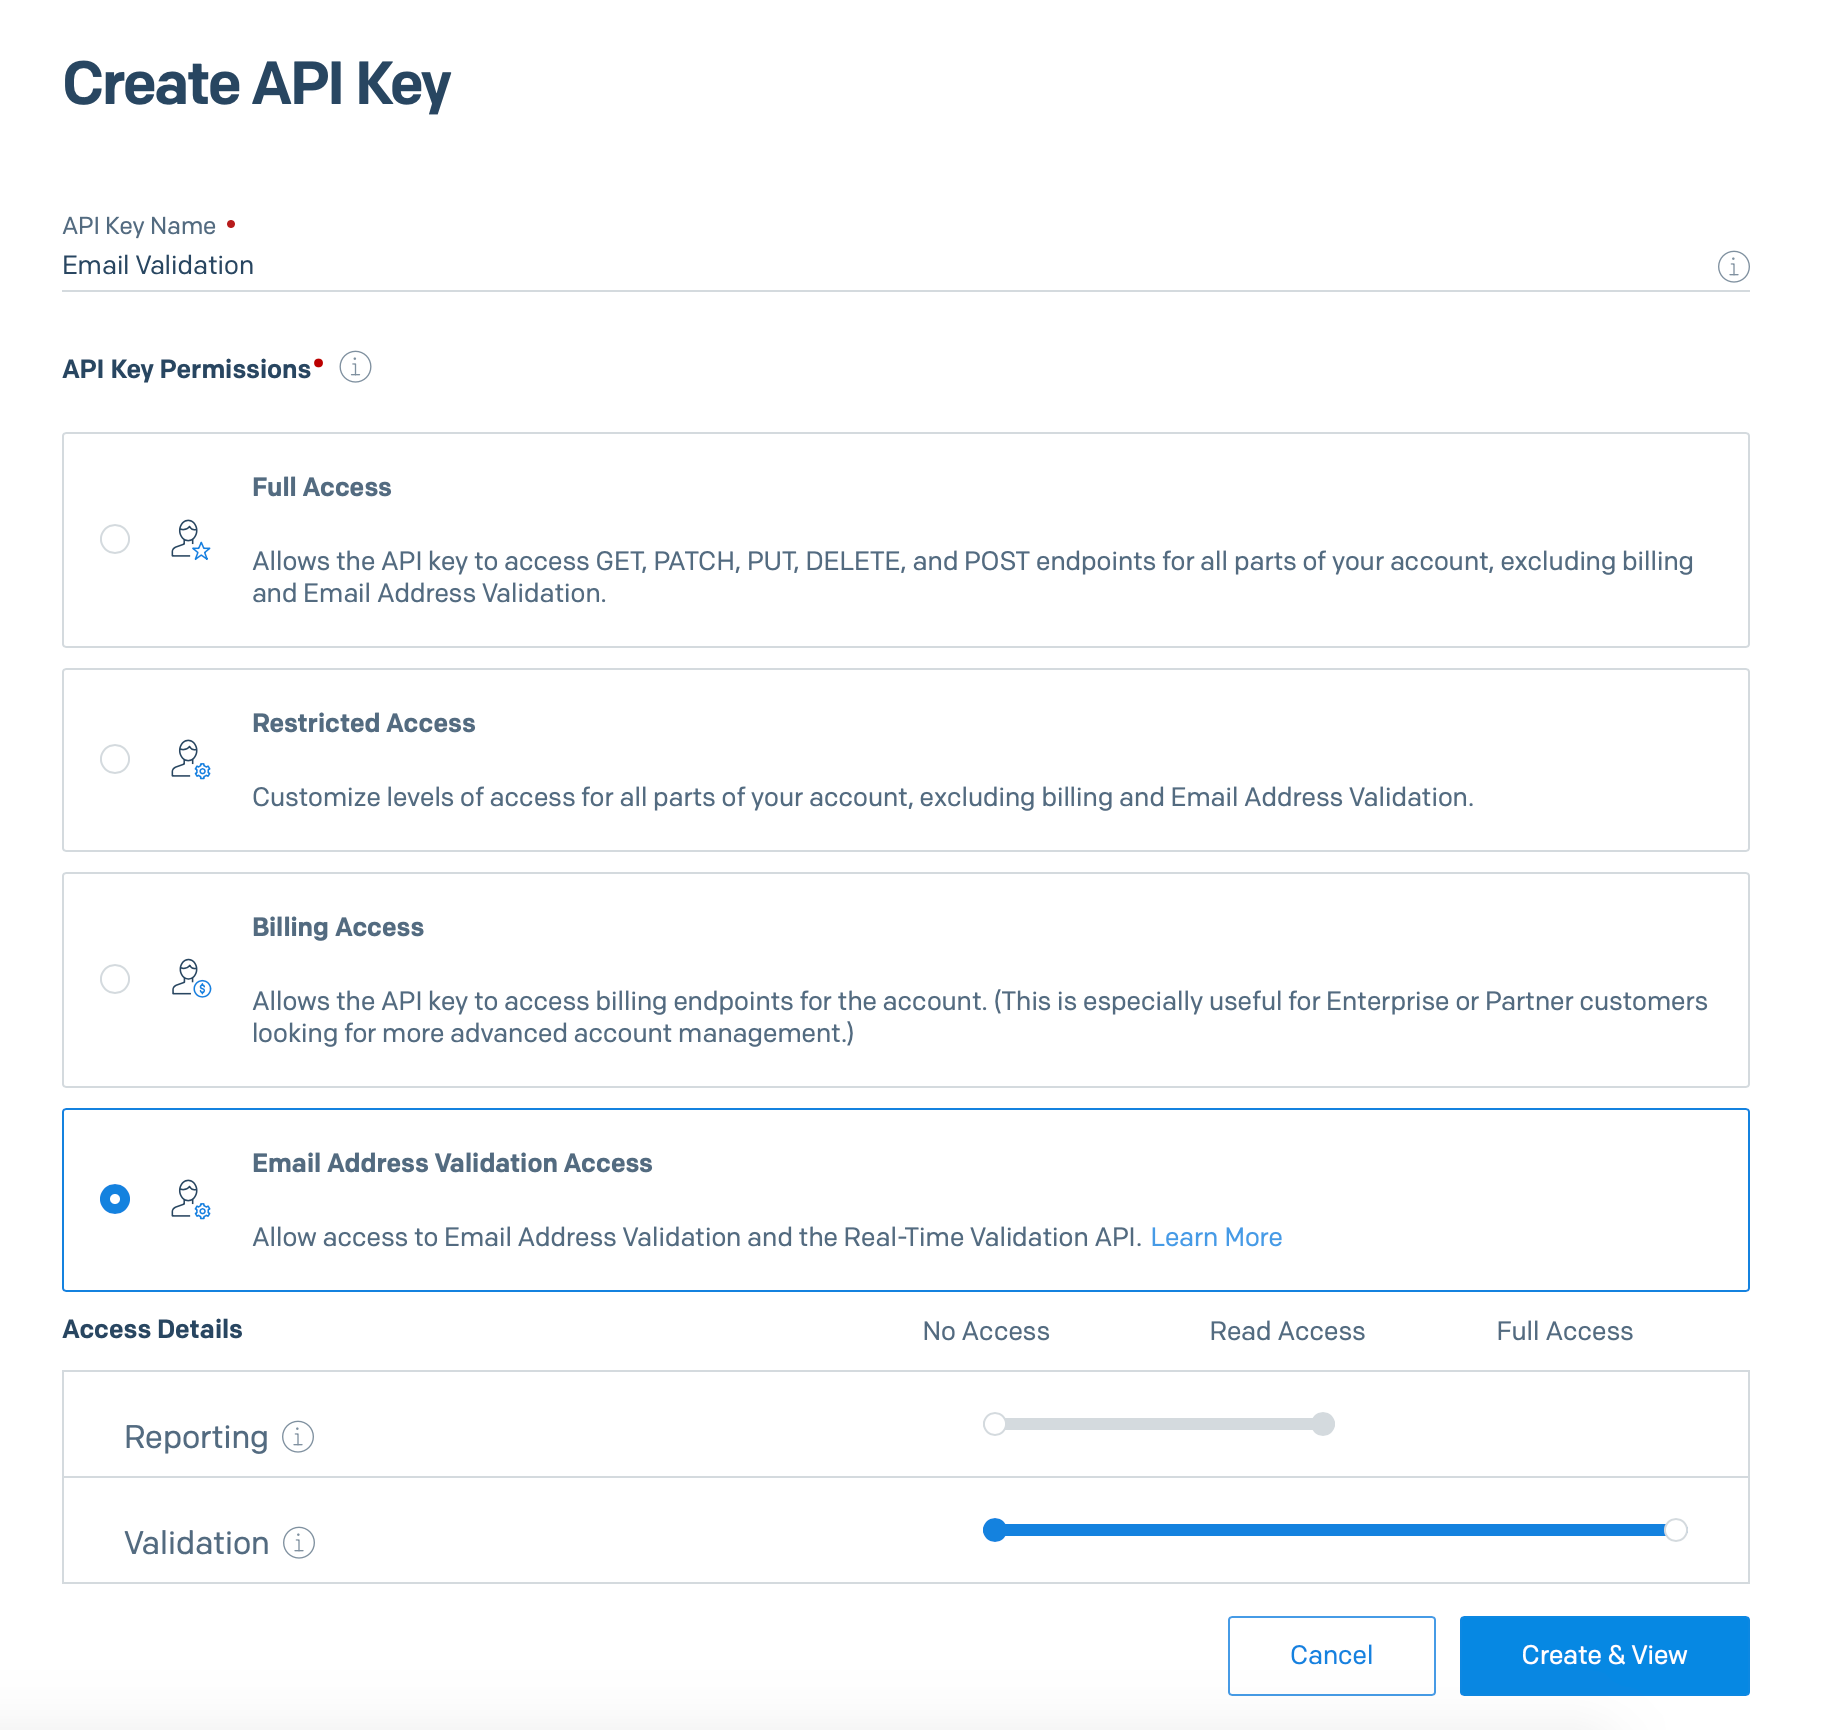
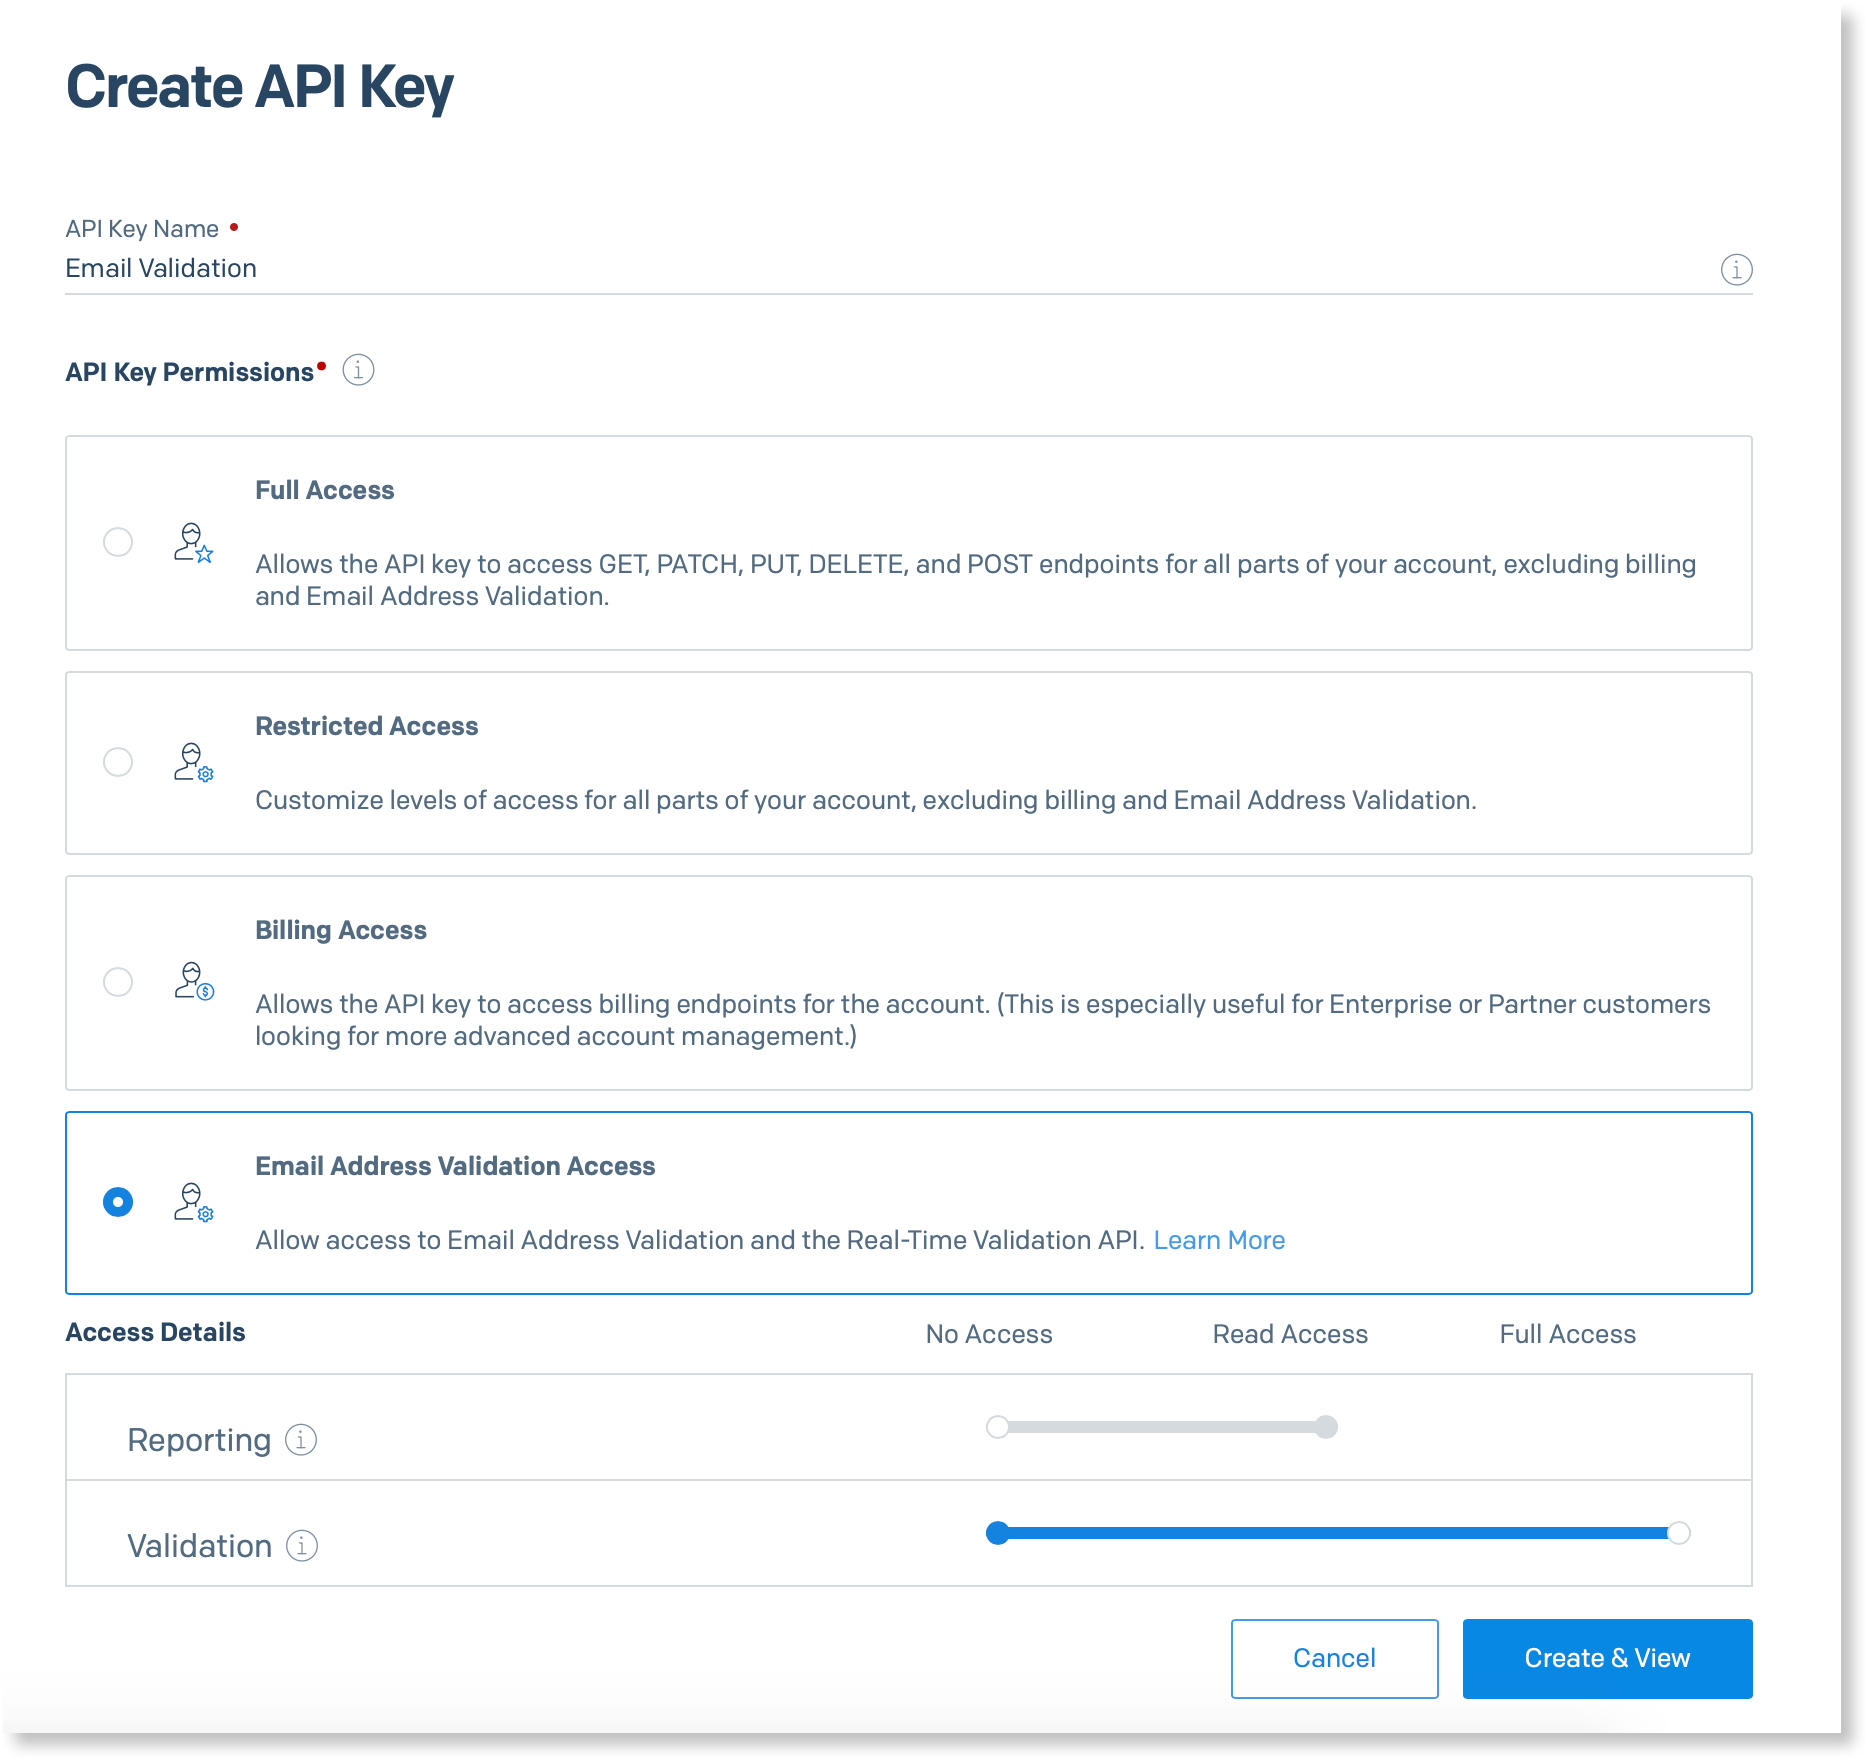
Email Address Validation Beta

diff --git a/content/docs/ui/managing-contacts/email-address-validation.md b/content/docs/ui/managing-contacts/email-address-validation.md
@@ -1,0 +1,176 @@
+---
+layout: page
+weight: 55
+title: Email Address Validation Beta
+group: managing-contacts
+navigation:
+  show: true
+seo:
+  title: Email Address Validation Beta
+  keywords: email, validation, signup
+  override: true
+  description: Twilio SendGrid's real-time Email Address Validation provides you detailed information on the validity of your users' email addresses, as well as allows you to integrate this validation process into your signup process. 
+
+---
+
+Email Address Validation provides you real-time detailed information on the validity of your users' email addresses, as well as allows you to integrate this validation process into your platform's signup form. You can customize how strict your validation threshold is, as well as whether or not you want to inform your users that their email addresses are invalid, or if you want to drop their email address from your database. 
+
+Validating your users' email addresses so that you are sending to more valid email addresses will allow you to maintain a cleaner subscriber list and improve your sender reputation.
+
+## Generating your Email Address Validation API Key
+
+Before you can call the Email Address Validation Real Time API endpoint, you’ll need an API key with Email Address Validation permissions.
+ 
+<call-out>
+
+You are required to create a brand new API key that will only be used for Email Address Validation. Please do not re-use an existing API key with Email Validation.
+
+</call-out>
+
+1. Navigate to **Settings**, and then select **API Keys**. Click **Create API Key** in the upper right-hand corner.
+1. Name your new key and select the **Email Address Validation Access** permission.
+1. Select **Full Access** to the left of **Validation**.
+
+![]({{root_url}}/img/create-api-key.png "API Key Access Permissions List")
+
+<call-out>
+
+If you do not see “Email Address Validation Access” listed in your list, please reach back out to us so that we can ensure your account is in the beta.
+
+</call-out>
+
+4. Click **Create & View**.
+5. Copy your new API key somewhere safe. **This will be the only time you will be able to see it in its entirety due to security reasons.**
+
+You’re now ready to start using the Real Time API endpoint!  
+
+## Using the Real Time API Endpoint
+
+The Email Address Validation Real Time API Endpoint takes a single email address in a POST request, and returns a verdict with detailed data in a JSON response. Complete documentation of the endpoint, including details of the response, are available [here]/(**INSERT NEW LINK HERE**).
+
+*When integrating with the Real Time API endpoint, please keep the following things in mind*:
+
+- Do not call the API endpoint from client side code such as Javascript. Doing so would allow anyone to find your API key and use it to validate their own email addresses on your account. You should instead call the API from backend code, for instance, after the user submits a form.
+- The API currently accepts one email address at a time. If for some reason you have multiple addresses you need to validate, please call the API once per email address.
+- The API endpoint is rate limited to 600 requests per minute. Please let us know if this rate limit is too restrictive for your needs as we evaluate it during the beta period.
+
+The "Source" gets passed through the API call as an optional field. You pass it as a string, only using alphanumeric characters and spaces. For example:
+
+```
+{
+  "email": "email@example.com",
+  "source": "Newsletter Signup"
+}
+```
+
+The API response should look something like this, using the example email "cedric.fogowl@gmail.com":
+
+
+```
+{"result":{"email":"cedric.fogowl@gmail.com",
+"verdict":"Valid","score":0.98015,
+"local":"cedric.fogowl","host":"gmail.com",
+"checks":{"domain":{"has_valid_address_syntax":true,
+"has_mx_or_a_record":true,"is_suspected_disposable_address":false},
+"local_part":{"is_suspected_role_address":false},
+"additional":{"has_known_bounces":false,
+"has_suspected_bounces":false}},"ip_address":"65.101.243.157"}}
+```
+
+## Integration suggestions
+
+While the API allows flexibility for integrating in multiple ways, this section describes a recommended approach for validating emails in a sign up form. This could be a sign up form for subscribing to a newsletter, or for signing up for an account with your service. Some websites require visitors to enter their email address in twice, but with Twilio SendGrid’s Email Validation API, you can require that they only enter it in *once*, reducing friction points while also validating user input.
+
+### When to call the API
+
+Call the API in your backend code, most commonly after the user submits the form. You could also call your backend to validate an email address right after a user types in their email, but the most important thing is that the API call is made in your backend code, thereby protecting your API key from prying eyes.
+
+### Evaluating an email address verdict
+
+The API response you receive after calling the API contains a lot of useful information that you can use to determine whether or not you want to accept or send to an email address. Below is a summary of the three most important fields you’ll want to look at:
+
+- **Verdict**: This field will contain one of three categories: `“Valid”`, `“Risky”`, or `“Invalid”`. These are generic classifications based off of the detailed results. You could filter off of this field if you want to go off of our suggestion, but you could also look at more detailed information like the next 2 listed.
+
+- **Score**: This number from 0 to 1 represents the likelihood the email address is valid, expressed as a percentage. So for instance, a score of 0.96 could be interpreted as a 96% likelihood the email is valid. If you want finer grained control than the generic categories of the `“result”` field, you could set a threshold based off this score.
+
+- **Checks**: This field will contain a list of all the checks that ran on the email address. You could use these results to determine if you want to take a calculated risk in sending to an address. For instance, an email address that is a role address (e.g. admin@examplecompany.com) will come back with a `“Risky”` result and a score of 50%. A disposable email address from mailinator.com would also come back with a `“Risky”` result and a score of 50%. You might decide that you only want to send to email addresses with a score of 80% or higher, but are also OK with sending to addresses that are disposable (and therefore have a score of 50%). You could use this field to gain the info you need to filter at that level. Here are a list of all the checks and what they mean:
+
+    - ``has_valid_address_syntax`` - If true, then the address is a properly formatted email address (e.g. it has an @ sign and a top level domain). If false, then it’s a malformed address.
+    - ``has_mx_or_a_record`` - If true, the domain on the address has all the necessary DNS records to deliver a message somewhere. If false, the domain is missing the required DNS records and will result in a bounce if delivered to.
+    - ``is_suspected_disposable_address`` - If true, the domain part of the email address appears to be from a disposable email address service, in which the addresses are only good for a short period of time.
+    - ``is_suspected_role_address`` - If true, the local part of the email address (before the @ sign) appears to be a group email address such as “hr” or “admin”.
+    - ``has_known_bounces`` - If true, the email address has previously been sent to through your SendGrid account and has resulted in a bounce.
+    - ``has_suspected_bounces`` - If true, our machine learning model suspects that the email address might bounce.
+
+You can use any combination of these fields to filter down to what you consider a good address.
+
+### Checking for domain typos
+
+The Email Validation Real Time API will check for typos in an email address in addition to evaluating its validity. If we detect a possible typo, you will find a `“suggestion”` field in the API response containing what we believe to be the correct domain. For instance, if you call the API with “john.doe@gmial.com”, the API response might look something like this:
+
+``` 
+{
+  "result": {
+    "email": "john.doe@gmial.com",
+    "verdict": "Invalid",
+    "score": 0.00089,
+    "local": "john.doe",
+    "host": "gmial.com",
+    "suggestion": "gmail.com",
+    "checks": {
+      "domain": {
+        "has_valid_address_syntax": true,
+        "has_mx_or_a_record": true,
+        "is_suspected_disposable_address": false
+      },
+      "local_part": {
+        "is_suspected_role_address": false
+      },
+      "additional": {
+        "has_known_bounces": false,
+        "has_suspected_bounces": true
+      } 
+    },
+    "ip_address": "123.45.67.89"
+  }
+}
+```
+
+In this response, the `“suggestion”` field is recommending “gmail.com” instead of “gmial.com.” With this info, you can combine the value in the “local” field with the value in the `“suggestion”` field to create the intended email address of “john.doe@gmail.com.”
+
+### Providing user feedback vs. dropping bad email addresses
+
+After you call the API and evaluate the results as described in the previous section, you’ll eventually come to a point where you have an email address that you consider “bad” and now have to decide how to handle it.
+
+The first option is to provide user feedback by returning to the sign up form and showing an error screen, letting the user know that they need to check the email address. For instance, you might realize the user made a typo as described in the previous section and decide to show an error like, “Did you mean john.doe@gmail.com?”
+
+<call-out type="warning">
+
+Be careful not to create a block in your sign up form if you provide user feedback. It’s possible that a user’s actual email address doesn’t meet your criteria for a good address, and will never be able to successfully submit your form. You should consider alerting the user only once, and then allowing the same address if they submit it again a second time.
+
+</call-out>
+
+The second option is to validate the email address after submission and not provide any user feedback. In the event that an email address meets your “bad” criteria, you would instead just drop the email address and accept that you will not be sending future emails to that user.
+
+Depending on your business needs and how much integration work you are able to do, both of these approaches are valid. The upside of providing user feedback is that you’ll probably have more users with “good” email addresses, however the downside is you’ll still have some friction points in the sign up form in the event that the address they provide doesn’t meet your criteria. The upside of dropping bad addresses in the backend is that you have a frictionless sign up form, while the downside is you could end up with fewer users with “good” email addresses.
+
+## Deferring result judgment to UI for faster integration
+
+The last way you can evaluate your validation results is to defer any decisions to later, allowing for a faster integration. In the next section, you’ll learn about the reporting UI available in the Twilio SendGrid UI. This UI gives you access to all the validation results you’ve done in the past 30 days, and allows you to filter down to what you consider a good address. With that in mind, you can integrate fast by simply calling the real time API with an email address and ignore the response. Sometime later, you can go into the UI and find what you consider a good email address, and export your results to your CRM. 
+
+### The reporting UI
+
+Twilio SendGrid will store the results of every email address you validate for 30 days, and can be viewed [in your SendGrid account](https://app.sendgrid.com/email_validation).
+
+![]({{root_url}}/img/email-address-validation-stats.png "Email Address Validation Statistics")
+
+### Filtering your results
+
+The reporting UI provides a set of filters that can help you drill down to what you consider a good or a bad address. You can filter by the verdict result, the source the validation was performed at, as well as the score.
+
+![]({{root_url}}/img/validation-details.png "Validation Details")
+
+### Exporting your results
+
+Once you’ve filtered down to your desired list of results, you can click the **Export CSV** button to get a CSV list of your results. This can then be used to upload your good contacts to Marketing Campaigns, or your CRM of choice.
+
